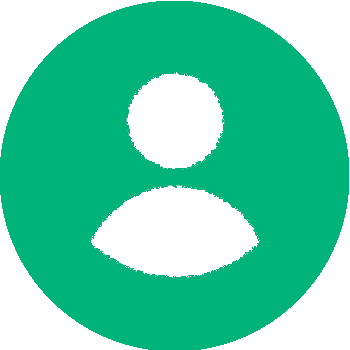
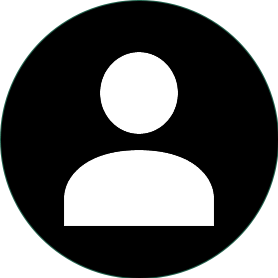
Login logic

diff --git a/frontend/src/views/LoginView.vue b/frontend/src/views/LoginView.vue
@@ -3,7 +3,7 @@
     <article class="logincard">
       <img src="@/assets/avatar.png" alt="Avatar" class="avatar margin-b-15">
       <component :is="activeComp"></component>
-      <p class="margin-b-15">Don't have an account? <button @click="toggleValue = !toggleValue" class="link">Sign up</button></p>
+      <p class="margin-b-15 text-black">Don't have an account? <button @click="toggleValue = !toggleValue" class="link">Sign up</button></p>
     </article>
   </body>
 </template>
@@ -42,8 +42,8 @@ body {
   padding: 60px 50px;
   width: 500px;
   height: fit-content;
-  background-color: #ffffff;
-  color: azure;
+  background-color: #D9D9D9;
+  color: white;
 }
 
 
@@ -55,7 +55,13 @@ body {
 
 .link {
   border: none;
-  background-color: none;
-  color: #001AFF;
+  background-color: #D9D9D9;
+  font-weight: bold;
+  color: #40bd9b;
+  cursor: pointer;
+}
+
+.text-black {
+  color: black;
 }
 </style>

diff --git a/frontend/src/components/Register.vue b/frontend/src/components/Register.vue
@@ -1,5 +1,5 @@
 <template>
-  <h3 class="margin-b-30">Sign up</h3>
+  <h3 class="margin-b-30 title">Sign up</h3>
   <div class="form">
     <input class="form-input" type="name" placeholder="Full name" name="name" required>
     <input class="form-input" type="email" placeholder="Email" name="email" required>
@@ -24,6 +24,8 @@ export default {
   height: 40px;
   margin-bottom: 15px;
   text-align: center;
+  border: none;
+  background-color: white;
 }
 
 .button-login {
@@ -31,5 +33,13 @@ export default {
   width: 400px;
   height: 40px;
   text-align: center;
+  color: black;
+  background-color: white;
+  border: none;
 }
+
+.title {
+  color: black;
+}
+
 </style>

diff --git a/frontend/src/components/Login.vue b/frontend/src/components/Login.vue
@@ -25,6 +25,8 @@ export default {
   height: 40px;
   margin-bottom: 15px;
   text-align: center;
+  border: none;
+  background-color: white;
 }
 
 .button-login {
@@ -32,9 +34,12 @@ export default {
   width: 400px;
   height: 40px;
   text-align: center;
+  color: black;
+  background-color: white;
+  border: none;
 }
 
 .title {
-  color: #00B479;
+  color: black;
 }
 </style>
